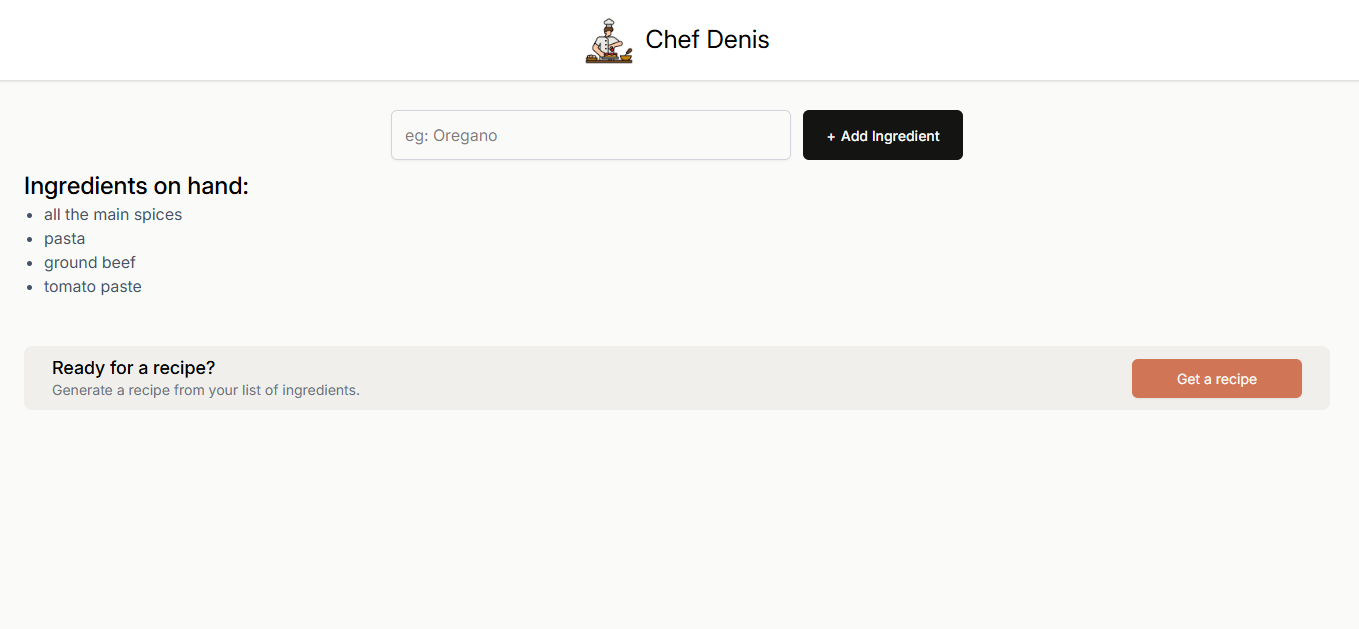
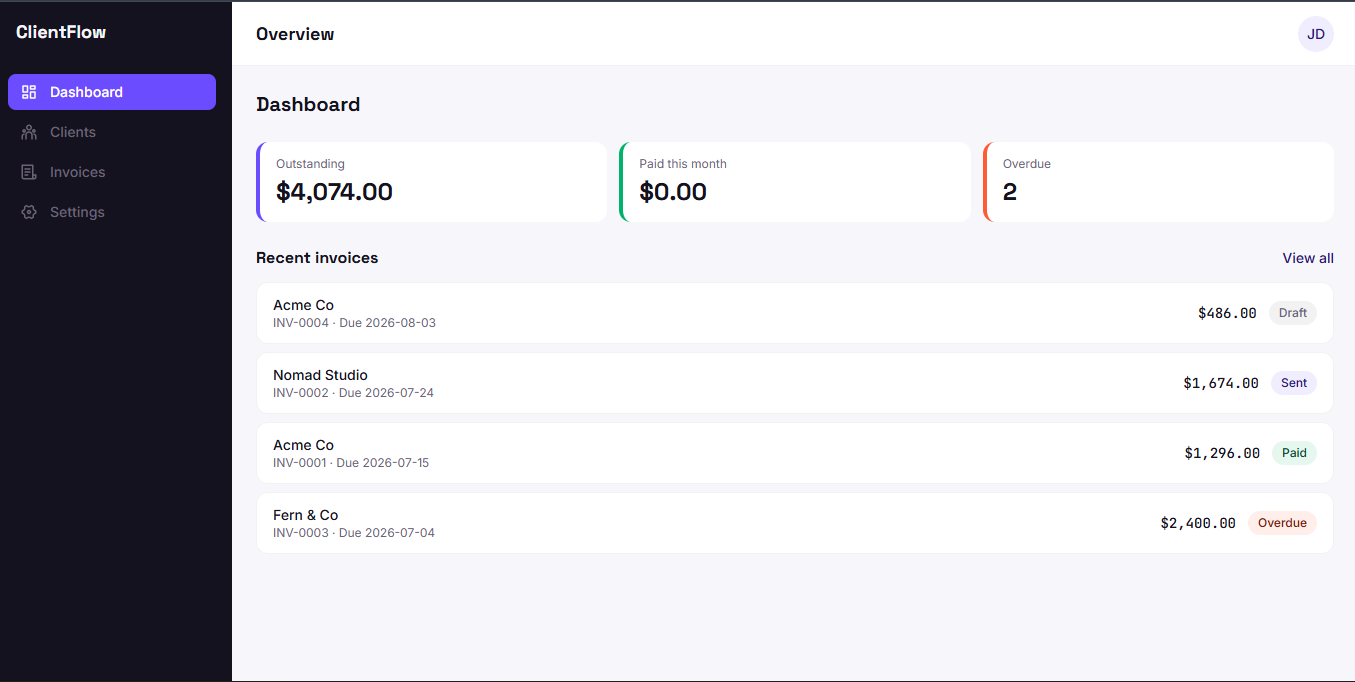
feat: replace placeholder projects with KukujeshiStocker and ClientFlow

diff --git a/components/ProjectsSection.jsx b/components/ProjectsSection.jsx
@@ -1,51 +1,31 @@
 import { ArrowRight, ExternalLink, Github } from "lucide-react"
 
 const projects = [
-    {
+  {
     id: 1,
-    title: "Jays Closet",
-    description: "A full-stack e-commerce web application built with the MERN stack. Jays Closet features dynamic product listings, user authentication, shopping cart, order management, and a secure checkout process — all designed with responsiveness and real-world usability in mind.",
+    title: "KukujeshiStocker",
+    description: "A full-stack, multi-tenant inventory, POS, and payment collection platform for small retailers in Kenya. Store owners manage stock levels, process sales, and accept real Paystack payments, with role-based staff access and full data isolation between stores. Built solo end-to-end with JWT authentication, webhook-verified payments, and 65+ automated backend tests.",
     image: "/projects/Project1.png",
-    tags: ["React", "Tailwind", "Express", "Node.js", "MongoDB", "JWT", "Redux", "Render", "Netlify"],
-    demoUrl: "https://jayscloset.netlify.app/",
-    githubUrl: "https://github.com/DenisKiarie3/JAYSCLOSET-FRONTEND.git",
+    tags: ["React", "Redux Toolkit", "React Query", "Tailwind CSS", "Django REST Framework", "PostgreSQL", "JWT", "Paystack"],
+    demoUrl: "https://kukujeshistocker.netlify.app",
+    githubUrl: "https://github.com/DenisKiarie3/KukujeshiStocker",
   },
 
   {
     id: 2,
-    title: "Recipe App",
-    description: "A simple and responsive frontend app that displays delicious recipes with ingredients and steps. Users can explore meals by category and search functionality.",
+    title: "ClientFlow",
+    description: "A freelancer invoicing and client management platform built around a deliberate service-layer architecture — every data operation is isolated behind a services layer, so a real Django REST backend can be integrated later with zero component rewrites. Features dynamic invoicing with live-calculated totals, a stats dashboard, and an accessible, keyboard-navigable UI built in from the start.",
     image: "/projects/Project2.png",
-    tags: ["React", "Tailwind", "MealDB API", "Netlify"],
-    demoUrl: "https://deniskiarierecipeapp.netlify.app/",
-    githubUrl: "https://github.com/DenisKiarie3/RECIPE-APP.git",
+    tags: ["React", "Redux Toolkit", "Tailwind CSS v4", "Framer Motion", "React Router", "Zod", "Netlify"],
+    demoUrl: "https://clientflow-invoice.netlify.app/",
+    githubUrl: "https://github.com/DenisKiarie3/clientflow.git",
   },
 
   {
     id: 3,
-    title: "Meme Generator",
-    description: "A fun app that allows users to create custom memes by adding top and bottom text to random meme templates. Real-time preview included.",
-    image: "/projects/Project3.png",
-    tags: ["React", "Tailwind", "Meme API", "Netlify"],
-    demoUrl: "https://deniskiariememegenerator.netlify.app/",
-    githubUrl: "https://github.com/DenisKiarie3/MEME-GENERATOR.git",
-  },
-
-  {
-    id: 4,
-    title: "Travel Journal",
-    description: "A clean, card-based layout that displays memorable travel destinations with location, description, and date. Designed with focus on minimalism and responsive UI.",
-    image: "/projects/Project4.png",
-    tags: ["React", "Tailwind", "Static Content", "Netlify"],
-    demoUrl: "https://deniskiarietraveljournal.netlify.app/",
-    githubUrl: "https://github.com/DenisKiarie3/TRAVEL-JOURNAL.git",
-  },
-
-  {
-    id: 5,
     title: "Python Data Analysis Projects",
     description: "Collection of Python projects including word frequency analysis, log file processing, and dataset exploration, using Pandas, NumPy, and Matplotlib.",
-    image: "/projects/Project5.jpg",
+    image: "/projects/Project3.jpg",
     tags: ["Python", "Pandas", "NumPy", "Matplotlib", "Jupyter Notebook", "Data Analysis"],
     demoUrl: "",
     githubUrl: "https://github.com/DenisKiarie3/python-portfolio",
@@ -64,12 +44,12 @@ export const ProjectsSection = () => {
                     Featured <span className="text-primary"> Projects</span>
                 </h2>
                 <p className="text-center text-muted-foreground mb-12 max-w-2xl mx-auto">
-                    Here are some of my featured projects — spanning full stack web applications 
-                    and Python-based AI/ML solutions. Each project is thoughtfully built with a 
-                    focus on performance, scalability, and real-world usability. From responsive 
-                    web interfaces to data-driven machine learning models, these projects demonstrate 
-                    my expertise in modern development tools, the MERN stack, and intelligent 
-                    solutions.
+                    Here are some of my featured projects — full-stack, production-grade 
+                    applications spanning inventory management, payments, and client 
+                    billing, alongside independent Python data analysis work. Each project 
+                    is built with a focus on security, real-world usability, and clean 
+                    architecture, from Django REST Framework backends with fintech 
+                    integrations to thoughtfully structured React frontends.
                 </p>
                 <div className="grid grid-cols-1 md:grid-cols-2 lg:grid-cols-3 gap-8">
                     {projects.map((project, key) => (
